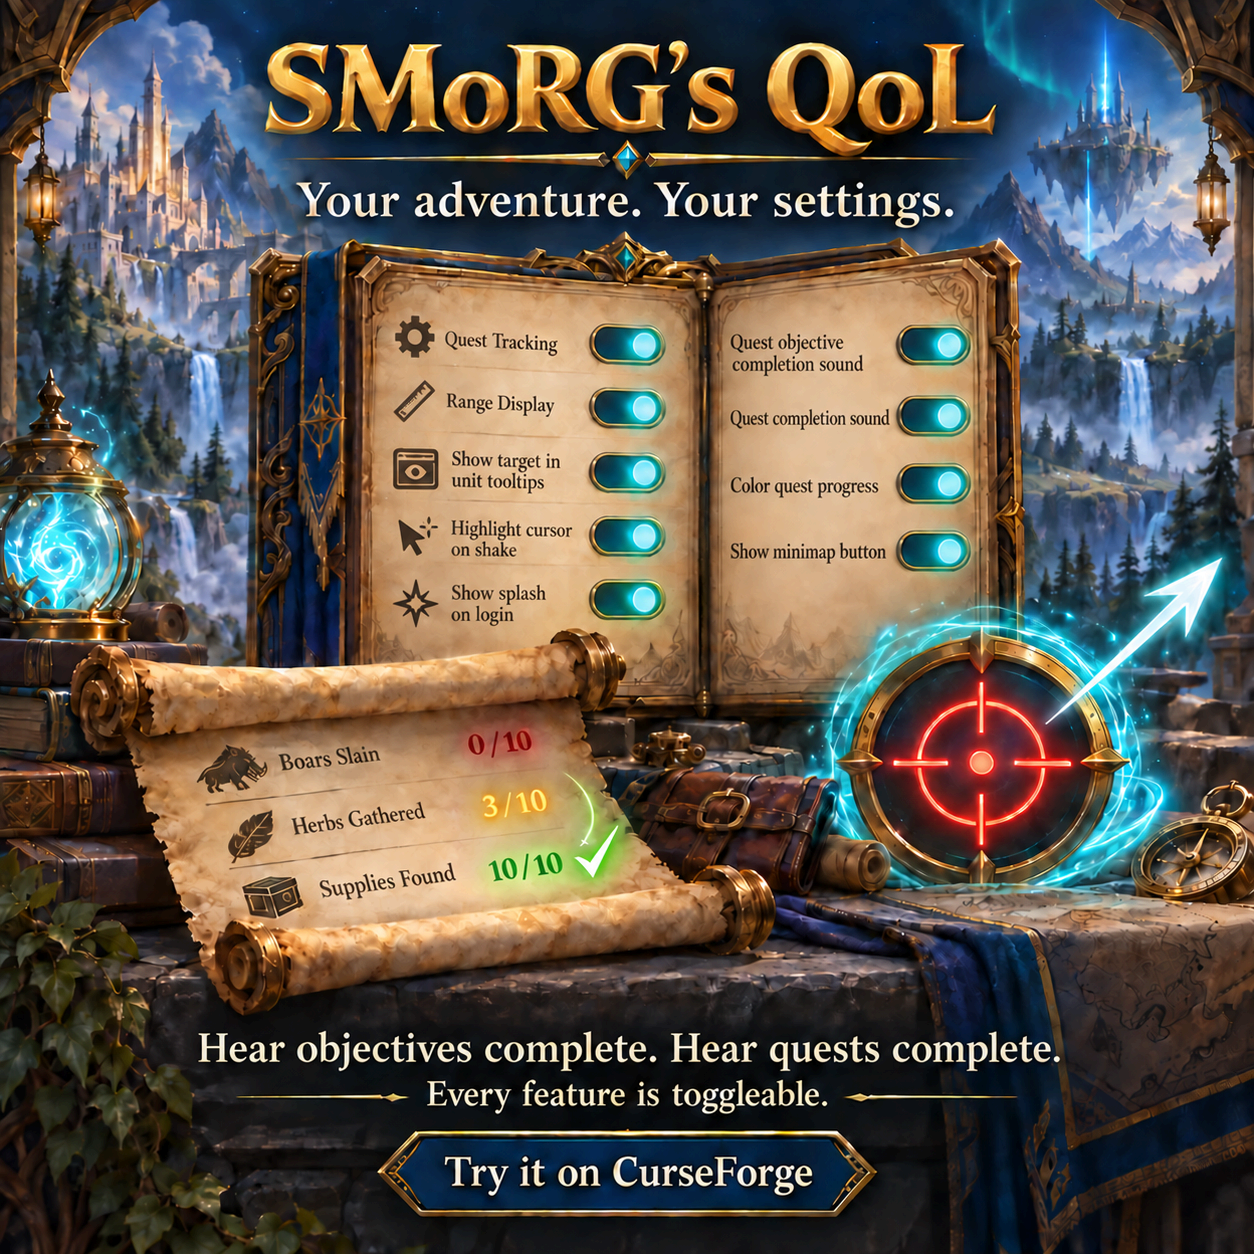
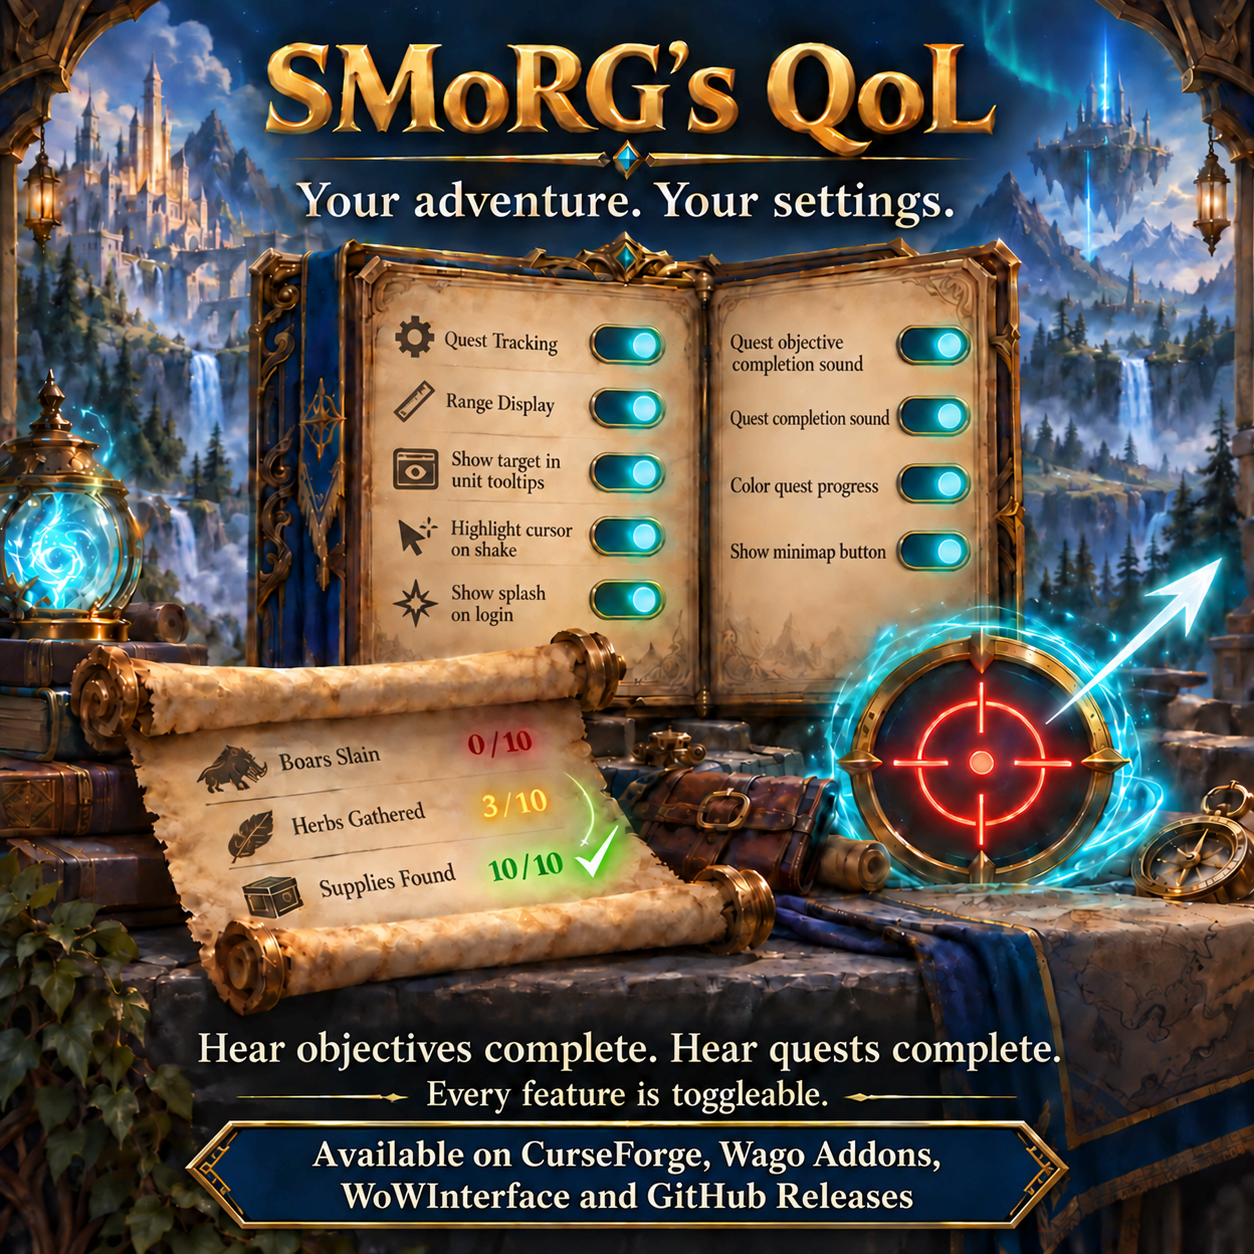
bedre billeder

diff --git a/output/promo/prompts.md b/output/promo/prompts.md
@@ -14,7 +14,21 @@ prompt, with no extra words, logos or garbled lettering.
 
 ## Banner
 
-Use case: ads-marketing. Create a polished wide promotional banner for a World of Warcraft addon that supports both Retail and WoW Forever. Brand title verbatim: "SMoRG's QoL". Large tagline verbatim: "Hear objectives complete. Hear quests complete." Other text, exactly four feature captions from left to right: "Quest objective completion sound", "Quest completion sound", "Know your range", "Every setting in one window". Footer text: "Retail & WoW Forever · Every feature is toggleable" and small "Available on CurseForge". Rich illustrated fantasy aesthetic, dark navy backdrop, warm antique gold title, tasteful turquoise magical glows, subtle parchment and metal details. Strong readable typography and generous spacing. Use four beautifully illustrated conceptual symbols, one above each caption: a quest objective scroll with unfinished 0/10, 3/10 and 7/10 rows and a green checked 10/10 row beside a ringing bell; a separate whole completed quest scroll with a large green check, gold seal and ringing bell; a red crosshair reticle inside a gold ring with a white arrow breaking out toward the upper right; an ornate open settings panel of parchment and gold with glowing toggle switches. Both sound features must be visually and textually distinct and most prominent. These are conceptual feature illustrations, not fabricated game screenshots. A high quality cohesive marketing layout with atmospheric depth, restrained ornament, clear text readable at small size. No official Blizzard or Warcraft logos, no faction insignia, no extra text, no fake ratings, no performance claims, no sliders or fabricated settings. Landscape aspect ratio approximately 16:9.
+Use case: ads-marketing. Create a polished wide promotional banner for a World of Warcraft addon that supports both Retail and WoW Forever. Brand title verbatim: "SMoRG's QoL". Large tagline verbatim: "Hear objectives complete. Hear quests complete." Other text, exactly four feature captions from left to right: "Quest objective completion sound", "Quest completion sound", "Know your range", "Every setting in one window". Footer text: "Retail & WoW Forever · Every feature is toggleable" and small "Available on CurseForge, Wago Addons, WoWInterface and GitHub Releases". Rich illustrated fantasy aesthetic, dark navy backdrop, warm antique gold title, tasteful turquoise magical glows, subtle parchment and metal details. Strong readable typography and generous spacing. Use four beautifully illustrated conceptual symbols, one above each caption: a quest objective scroll with unfinished 0/10, 3/10 and 7/10 rows and a green checked 10/10 row beside a ringing bell; a separate whole completed quest scroll with a large green check, gold seal and ringing bell; a red crosshair reticle inside a gold ring with a white arrow breaking out toward the upper right; an ornate open settings panel of parchment and gold with glowing toggle switches. Both sound features must be visually and textually distinct and most prominent. These are conceptual feature illustrations, not fabricated game screenshots. A high quality cohesive marketing layout with atmospheric depth, restrained ornament, clear text readable at small size. No official Blizzard or Warcraft logos, no faction insignia, no extra text, no fake ratings, no performance claims, no sliders or fabricated settings. Landscape aspect ratio approximately 16:9.
 ## Social image
 
-Use case: ads-marketing. Create a square social media promotional illustration for a World of Warcraft addon called "SMoRG's QoL", for Retail and WoW Forever. Premium fantasy game aesthetic: navy blue, antique gold trim, turquoise magic, atmospheric painted background. Large perfectly readable title at top exactly "SMoRG's QoL". Beneath it exact subtitle "Your adventure. Your settings." Main hero illustration: an ornate open settings panel of parchment and gold with glowing toggle switches at the center; in front of it an unrolled quest scroll whose progress numbers glow from red to green with a luminous green check; beside it a red crosshair reticle in a gold ring with a white arrow breaking out toward the upper right, surrounded by a soft turquoise halo. Strong cohesive composition, lots of breathing room, richly detailed crafted objects. Make the two sound features prominent as separate settings, labeled exactly "Quest objective completion sound" and "Quest completion sound". Other option labels must describe real addon settings from Options.lua; never invent brightness, volume, display sliders, target highlighting, or generic settings. Show readable labels rather than decorative lines. Bottom copy exactly "Hear objectives complete. Hear quests complete." and below it "Every feature is toggleable." Small bottom call to action exactly "Try it on CurseForge". This is conceptual promotional art, not a game screenshot. No additional marketing text, no official logos or faction insignia, no fake ratings. Make readable typography the priority. Square format.
+Use case: ads-marketing. Create a square social media promotional illustration for a World of Warcraft addon called "SMoRG's QoL", for Retail and WoW Forever. Premium fantasy game aesthetic: navy blue, antique gold trim, turquoise magic, atmospheric painted background. Large perfectly readable title at top exactly "SMoRG's QoL". Beneath it exact subtitle "Your adventure. Your settings." Main hero illustration: an ornate open settings panel of parchment and gold with glowing toggle switches at the center; in front of it an unrolled quest scroll whose progress numbers glow from red to green with a luminous green check; beside it a red crosshair reticle in a gold ring with a white arrow breaking out toward the upper right, surrounded by a soft turquoise halo. Strong cohesive composition, lots of breathing room, richly detailed crafted objects. Make the two sound features prominent as separate settings, labeled exactly "Quest objective completion sound" and "Quest completion sound". Other option labels must describe real addon settings from Options.lua; never invent brightness, volume, display sliders, target highlighting, or generic settings. Show readable labels rather than decorative lines. Bottom copy exactly "Hear objectives complete. Hear quests complete." and below it "Every feature is toggleable." Small bottom call to action exactly "Available on CurseForge, Wago Addons, WoWInterface and GitHub Releases". This is conceptual promotional art, not a game screenshot. No additional marketing text, no official logos or faction insignia, no fake ratings. Make readable typography the priority. Square format.
+
+## Download availability edit
+
+Use the existing image as the edit target. Preserve the artwork, titles, feature
+captions, settings labels, colors and aspect ratio. Change only the download
+plaque, widening it as needed. Use matching navy, antique gold and cream serif
+typography. Render the following exact text on two lines:
+
+"Available on CurseForge, Wago Addons,"
+"WoWInterface and GitHub Releases"
+
+For the banner, preserve the separate Retail & WoW Forever footer and arrange
+the two plaques side by side. For the square social image, center the widened
+download plaque at the bottom with comfortable margins. No new logos or text.
